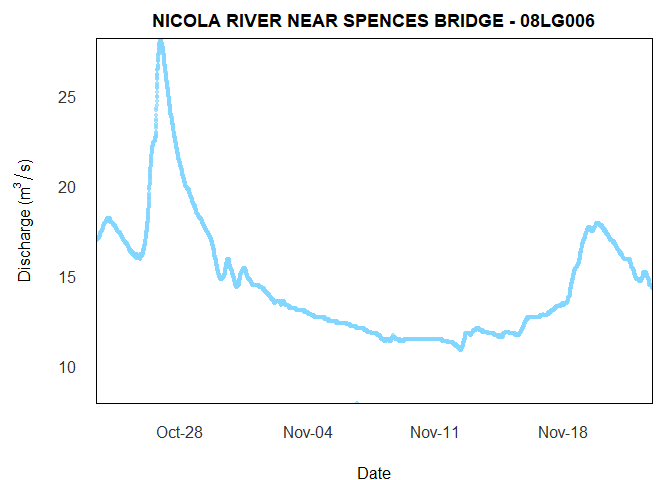
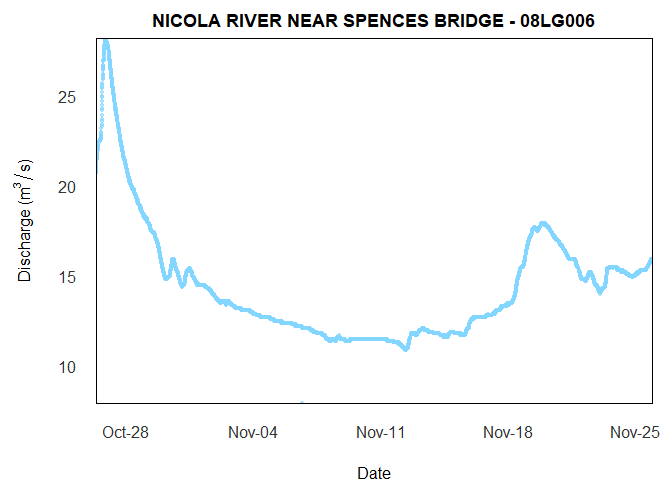
update README

diff --git a/README.md b/README.md
@@ -24,9 +24,9 @@ checks](https://cranchecks.info/badges/worst/tidyhydat)](https://cran.rstudio.co
 
 ## Project Status
 
-This package is maintained by the Knowledge Management Branch of the
-[British Columbia Ministry of Environment and Climate Change
-Strategy](https://www2.gov.bc.ca/gov/content/governments/organizational-structure/ministries-organizations/ministries/environment-climate-change).
+This package is maintained by the Data Science and Analytics Branch of
+the [British Columbia Ministry of Citizens’
+Services](https://www2.gov.bc.ca/gov/content/governments/organizational-structure/ministries-organizations/ministries/citizens-services).
 
 ## What does `tidyhydat` do?
 
@@ -219,21 +219,21 @@ easily select specific stations by supplying a station of interest:
 
 ``` r
 realtime_dd(station_number = "08LG006")
-#>   Queried on: 2019-11-22 23:58:07 (UTC)
-#>   Date range: 2019-10-23 to 2019-11-22 
+#>   Queried on: 2019-11-25 23:44:34 (UTC)
+#>   Date range: 2019-10-26 to 2019-11-25 
 #> # A tibble: 17,592 x 8
 #>    STATION_NUMBER PROV_TERR_STATE~ Date                Parameter Value Grade
 #>    <chr>          <chr>            <dttm>              <chr>     <dbl> <chr>
-#>  1 08LG006        BC               2019-10-23 08:00:00 Flow         17 <NA> 
-#>  2 08LG006        BC               2019-10-23 08:05:00 Flow         17 <NA> 
-#>  3 08LG006        BC               2019-10-23 08:10:00 Flow         17 <NA> 
-#>  4 08LG006        BC               2019-10-23 08:15:00 Flow         17 <NA> 
-#>  5 08LG006        BC               2019-10-23 08:20:00 Flow         17 <NA> 
-#>  6 08LG006        BC               2019-10-23 08:25:00 Flow         17 <NA> 
-#>  7 08LG006        BC               2019-10-23 08:30:00 Flow         17 <NA> 
-#>  8 08LG006        BC               2019-10-23 08:35:00 Flow         17 <NA> 
-#>  9 08LG006        BC               2019-10-23 08:40:00 Flow         17 <NA> 
-#> 10 08LG006        BC               2019-10-23 08:45:00 Flow         17 <NA> 
+#>  1 08LG006        BC               2019-10-26 08:00:00 Flow       20.6 <NA> 
+#>  2 08LG006        BC               2019-10-26 08:05:00 Flow       20.7 <NA> 
+#>  3 08LG006        BC               2019-10-26 08:10:00 Flow       20.8 <NA> 
+#>  4 08LG006        BC               2019-10-26 08:15:00 Flow       20.8 <NA> 
+#>  5 08LG006        BC               2019-10-26 08:20:00 Flow       20.9 <NA> 
+#>  6 08LG006        BC               2019-10-26 08:25:00 Flow       21   <NA> 
+#>  7 08LG006        BC               2019-10-26 08:30:00 Flow       21   <NA> 
+#>  8 08LG006        BC               2019-10-26 08:35:00 Flow       21.1 <NA> 
+#>  9 08LG006        BC               2019-10-26 08:40:00 Flow       21.1 <NA> 
+#> 10 08LG006        BC               2019-10-26 08:45:00 Flow       21.2 <NA> 
 #> # ... with 17,582 more rows, and 2 more variables: Symbol <chr>, Code <chr>
 ```
 
